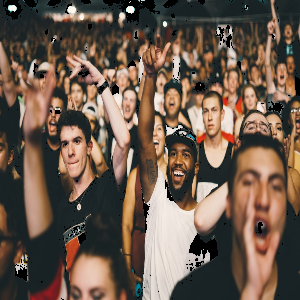
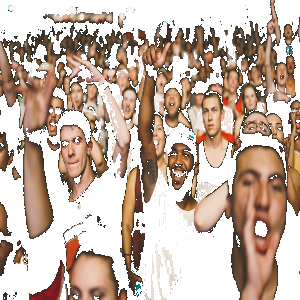
update test pic

diff --git a/skin-detect.py b/skin-detect.py
@@ -62,14 +62,14 @@ def skin_detect(input_path,output_path,w=200,h=150,threshold=0.9999999999999):
             neg_cond = neg_dist.pdf(data[0:3])
             skinness = pos_cond * pos_prior / (pos_prior * pos_cond + neg_prior * neg_cond)
             if(skinness < threshold):
-                im[x][y] = [0,0,0] 
+                im[x][y] = [255,255,255] 
 
     im = cv2.cvtColor(im, cv2.COLOR_RGB2BGR)
     cv2.imwrite(output_path,im)
-    
+
 skin_detect("people.jfif","people-th5.png",threshold=1,w=300,h=300)
 skin_detect("people.jfif","people-th0.png",threshold=0,w=300,h=300)
-skin_detect("people.jfif","people-th1.png",threshold=0.999999,w=300,h=300)
-skin_detect("people.jfif","people-th2.png",threshold=0.999999999999,w=300,h=300)
-skin_detect("people.jfif","people-th3.png",threshold=0.9999999999999,w=300,h=300)
-skin_detect("people.jfif","people-th4.png",threshold=0.99999999999999,w=300,h=300)
+skin_detect("people.jfif","people-th1.png",threshold=0.99999999,w=300,h=300)
+skin_detect("people.jfif","people-th2.png",threshold=0.999999999,w=300,h=300)
+skin_detect("people.jfif","people-th3.png",threshold=0.9999999999,w=300,h=300)
+skin_detect("people.jfif","people-th4.png",threshold=0.99999999999,w=300,h=300)
